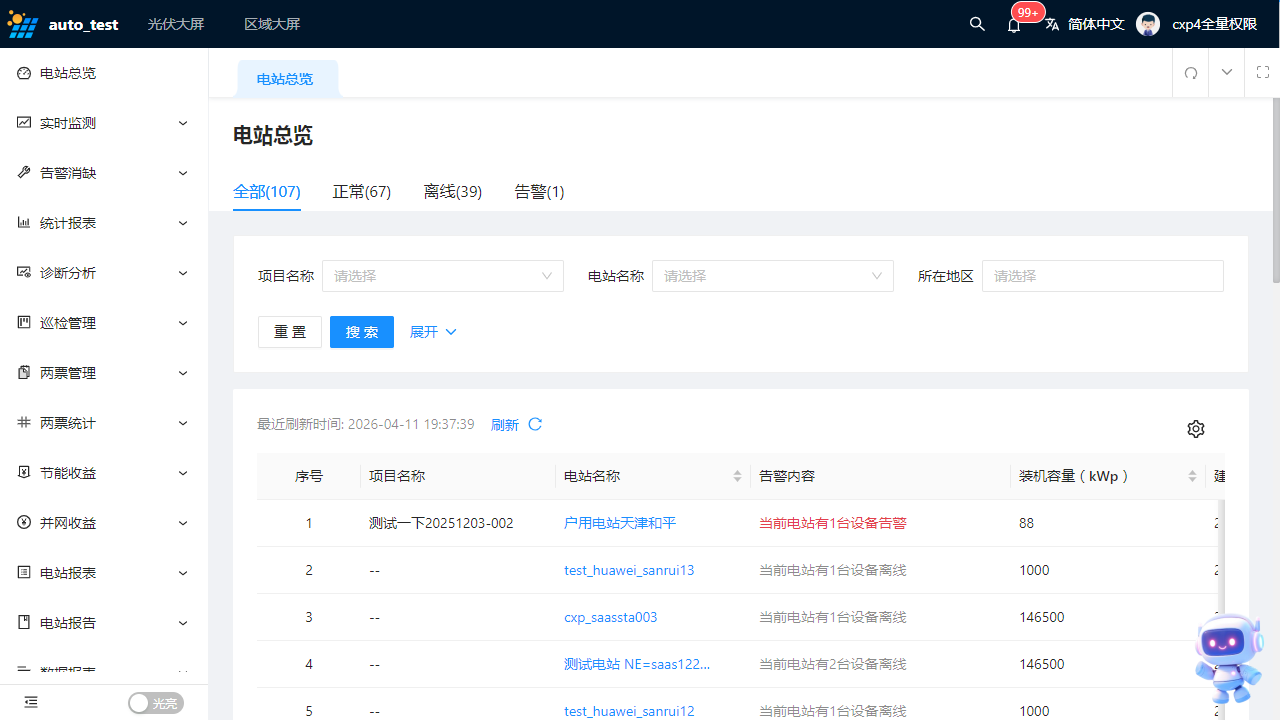
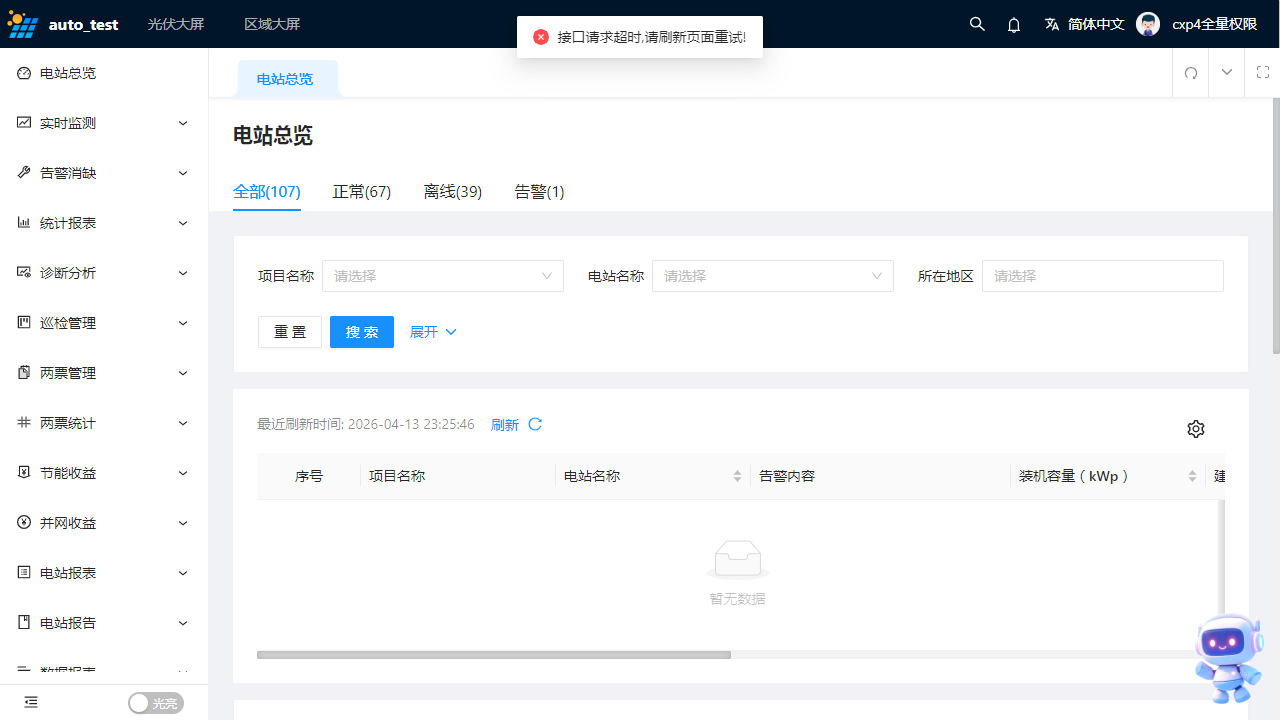
saas_首板代码提交

diff --git a/plugins/pytest_playwright.py b/plugins/pytest_playwright.py
@@ -67,11 +67,11 @@ def pytest_configure(config: Any) -> None:
 # https://docs.pytest.org/en/latest/example/simple.html#making-test-result-information-available-in-fixtures
 @pytest.hookimpl(tryfirst=True, hookwrapper=True)
 def pytest_runtest_makereport(item: Any) -> Generator[None, Any, None]:
-    # execute all other hooks to obtain the report object
+    # execute all other hooks to obtain the allure_results object
     outcome = yield
     rep = outcome.get_result()
 
-    # set a report attribute for each phase of a call, which can
+    # set a allure_results attribute for each phase of a call, which can
     # be "setup", "call", "teardown"
 
     setattr(item, "rep_" + rep.when, rep)